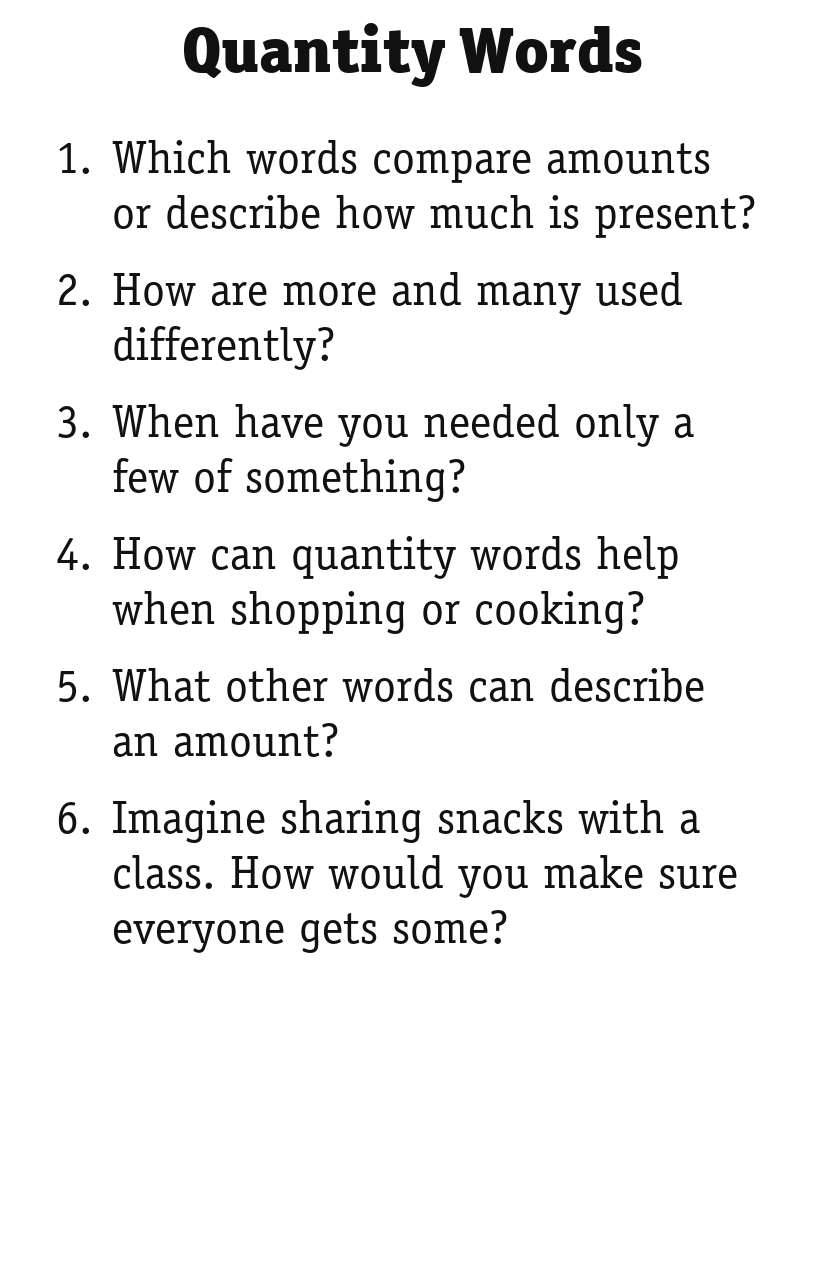
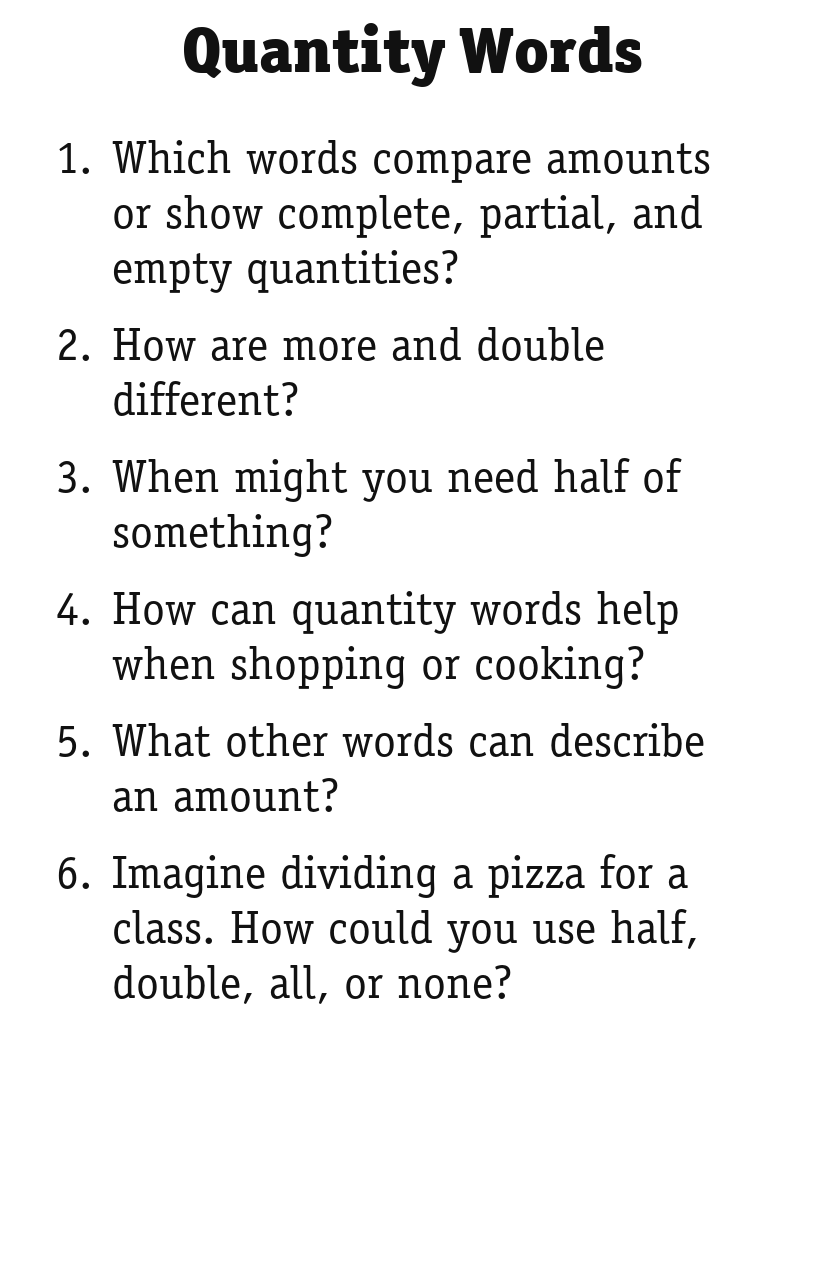
Fix item answer reveals and quantity card

diff --git a/picture-this/game-data.js b/picture-this/game-data.js
@@ -1131,9 +1131,9 @@ window.PICTURE_THIS_GAME_DATA = {
   "quantity-words": [
     "More",
     "Less",
-    "Many",
-    "Few",
-    "Some",
+    "Half",
+    "Double",
+    "All",
     "None"
   ],
   "texture-words": [
@@ -5316,25 +5316,27 @@ window.PICTURE_THIS_GAME_META = {
           ]
         },
         {
-          "id": "many",
-          "label": "Many",
+          "id": "half",
+          "label": "Half",
           "answers": [
-            "Many",
-            "Numerous"
+            "Half",
+            "One Half"
           ]
         },
         {
-          "id": "few",
-          "label": "Few",
+          "id": "double",
+          "label": "Double",
           "answers": [
-            "Few"
+            "Double",
+            "Twice"
           ]
         },
         {
-          "id": "some",
-          "label": "Some",
+          "id": "all",
+          "label": "All",
           "answers": [
-            "Some"
+            "All",
+            "Everything"
           ]
         },
         {
@@ -5348,39 +5350,39 @@ window.PICTURE_THIS_GAME_META = {
       ],
       "links": [
         {
-          "word": "than",
+          "word": "comparative",
           "answers": [
-            "than"
+            "comparative"
           ],
           "items": [
             "more",
             "less"
           ],
-          "explanation": "More and less are the only two words shown that combine directly with “than” to compare quantities.",
+          "explanation": "More and less are the only two comparative quantity words shown.",
           "audit": "exclusive-among-six-v1"
         },
         {
-          "word": "abundance",
+          "word": "multiplier",
           "answers": [
-            "abundance"
+            "multiplier"
           ],
           "items": [
-            "many",
-            "few"
+            "half",
+            "double"
           ],
-          "explanation": "Many and few are the only two words shown specifically describing whether a count is large or small.",
+          "explanation": "Half and double are the only two words shown that multiply an original amount by a fixed factor.",
           "audit": "exclusive-among-six-v1"
         },
         {
-          "word": "presence",
+          "word": "absolute",
           "answers": [
-            "presence"
+            "absolute"
           ],
           "items": [
-            "some",
+            "all",
             "none"
           ],
-          "explanation": "Some and none are the only two words shown specifically describing whether any amount is present.",
+          "explanation": "All and none are the only two absolute quantity words shown, meaning the complete set or zero of the set.",
           "audit": "exclusive-among-six-v1"
         }
       ]

diff --git a/picture-this/index.html b/picture-this/index.html
@@ -1439,8 +1439,13 @@
     <p class="sr-only" id="status" aria-live="polite"></p>
   </main>
 
-  <script src="game-data.js"></script>
-  <script src="link-data.js"></script>
+  <script>
+    // The deck grows frequently. A fresh query key prevents a host or browser
+    // from pairing the newest card list with an older, cached answer key.
+    const pictureThisDataRevision = Date.now();
+    document.write(`<script src="game-data.js?v=${pictureThisDataRevision}"><\/script>`);
+    document.write(`<script src="link-data.js?v=${pictureThisDataRevision}"><\/script>`);
+  </script>
   <script>
     // Mirrors cards.json so the activity also works when opened directly from file://.
     // PICTURE_THIS_CARDS_START
@@ -3389,6 +3394,7 @@
       guessInput.value = "";
       guessInput.disabled = false;
       guessSubmit.disabled = false;
+      revealGameAnswerButton.disabled = false;
       newGameCardButton.disabled = false;
       guessForm.hidden = gameMode === "find-pair";
       linkWord.hidden = gameMode !== "find-pair";
@@ -3396,7 +3402,7 @@
       categoryMask.hidden = gameMode !== "category";
       categoryMask.classList.remove("is-revealed");
       itemGrid.hidden = gameMode !== "items" && !isLinkMode();
-      itemGrid.setAttribute("aria-hidden", isLinkMode() ? "false" : "true");
+      itemGrid.setAttribute("aria-hidden", gameMode === "items" || isLinkMode() ? "false" : "true");
       itemGrid.classList.toggle("is-link-mode", isLinkMode());
       itemGrid.classList.toggle("is-pair-word", gameMode === "name-link");
       itemGrid.classList.remove("is-locked");
@@ -3432,6 +3438,7 @@
         if (items.length !== 6) {
           guessInput.disabled = true;
           guessSubmit.disabled = true;
+          revealGameAnswerButton.disabled = true;
           setGameFeedback("This card is missing its item answer key.", "wrong");
         }
       } else {
@@ -3730,9 +3737,17 @@
         categoryMask.classList.add("is-revealed");
         setGameFeedback(`The category is “${cards[cardIndex].title}.”`, "correct");
       } else if (gameMode === "items") {
+        const answers = gameData[cards[cardIndex].id] || [];
+        if (answers.length !== 6) {
+          roundComplete = false;
+          revealGameAnswerButton.disabled = true;
+          setGameFeedback("The answer key did not load. Refresh the page to reload the deck data.", "wrong");
+          return;
+        }
         itemCells.forEach((cell, index) => {
           foundItems.add(index);
           cell.classList.add("is-revealed");
+          cell.setAttribute("aria-label", `${answers[index]}, revealed`);
         });
         updateItemProgress();
         setGameFeedback("All six answers are revealed. No points were added.");
